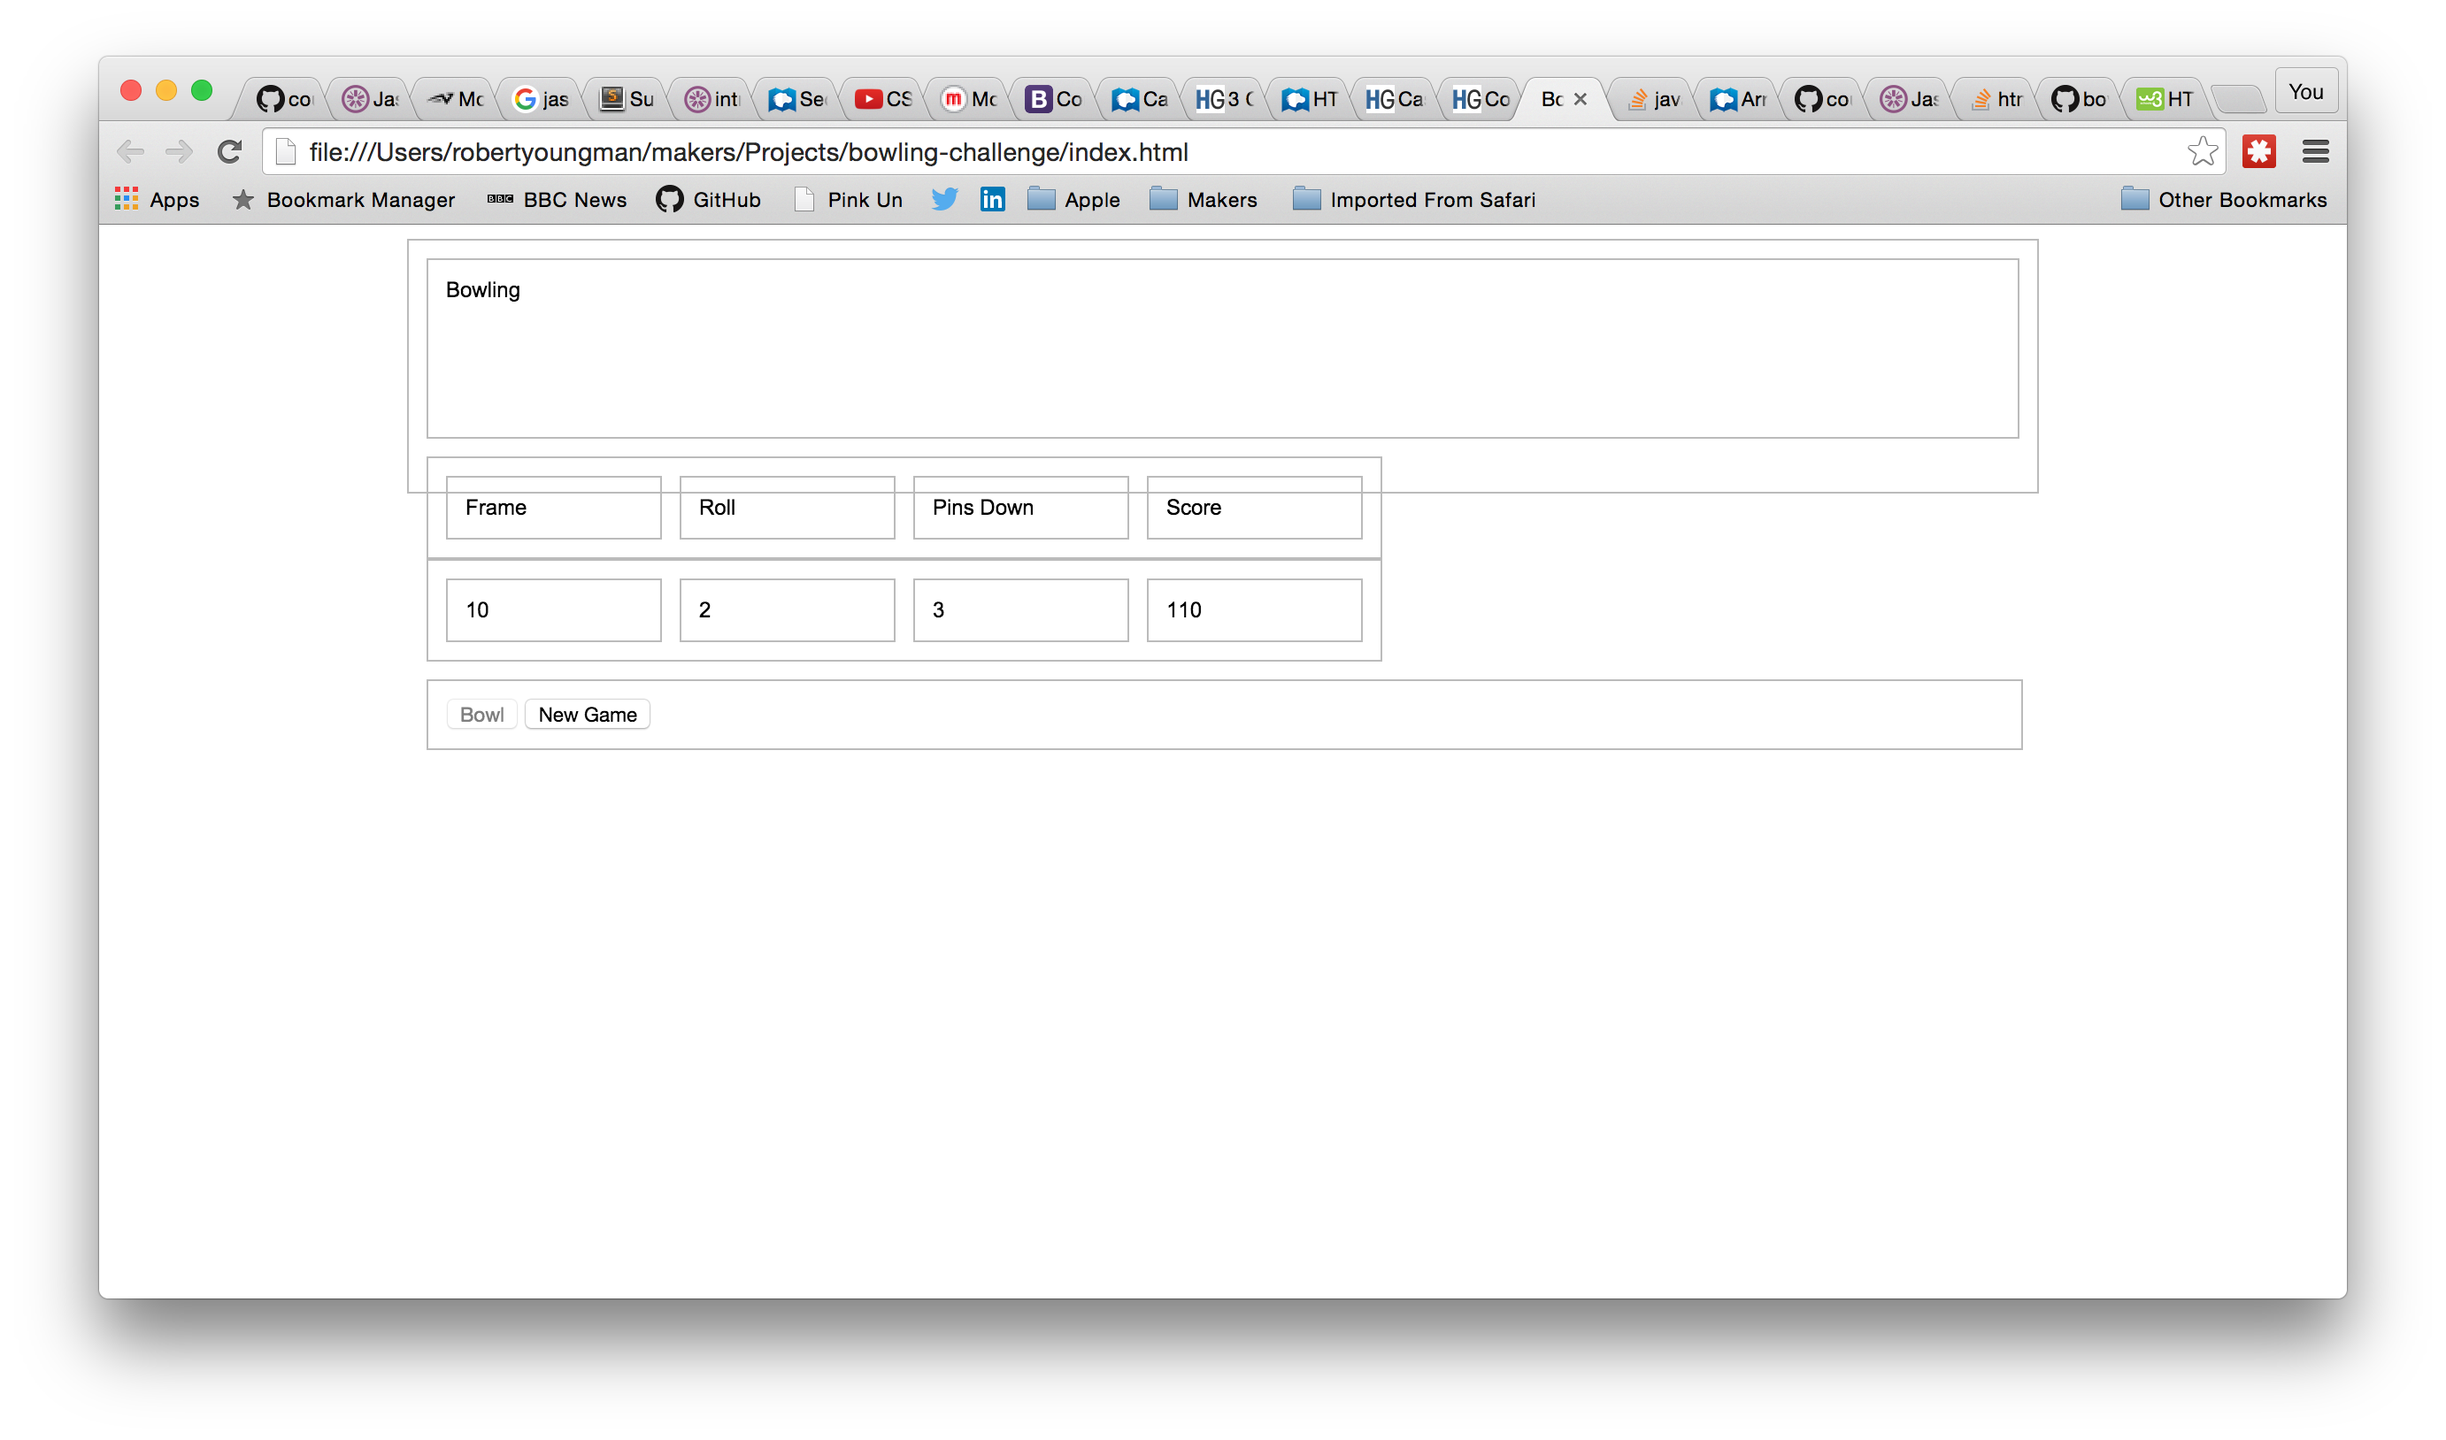
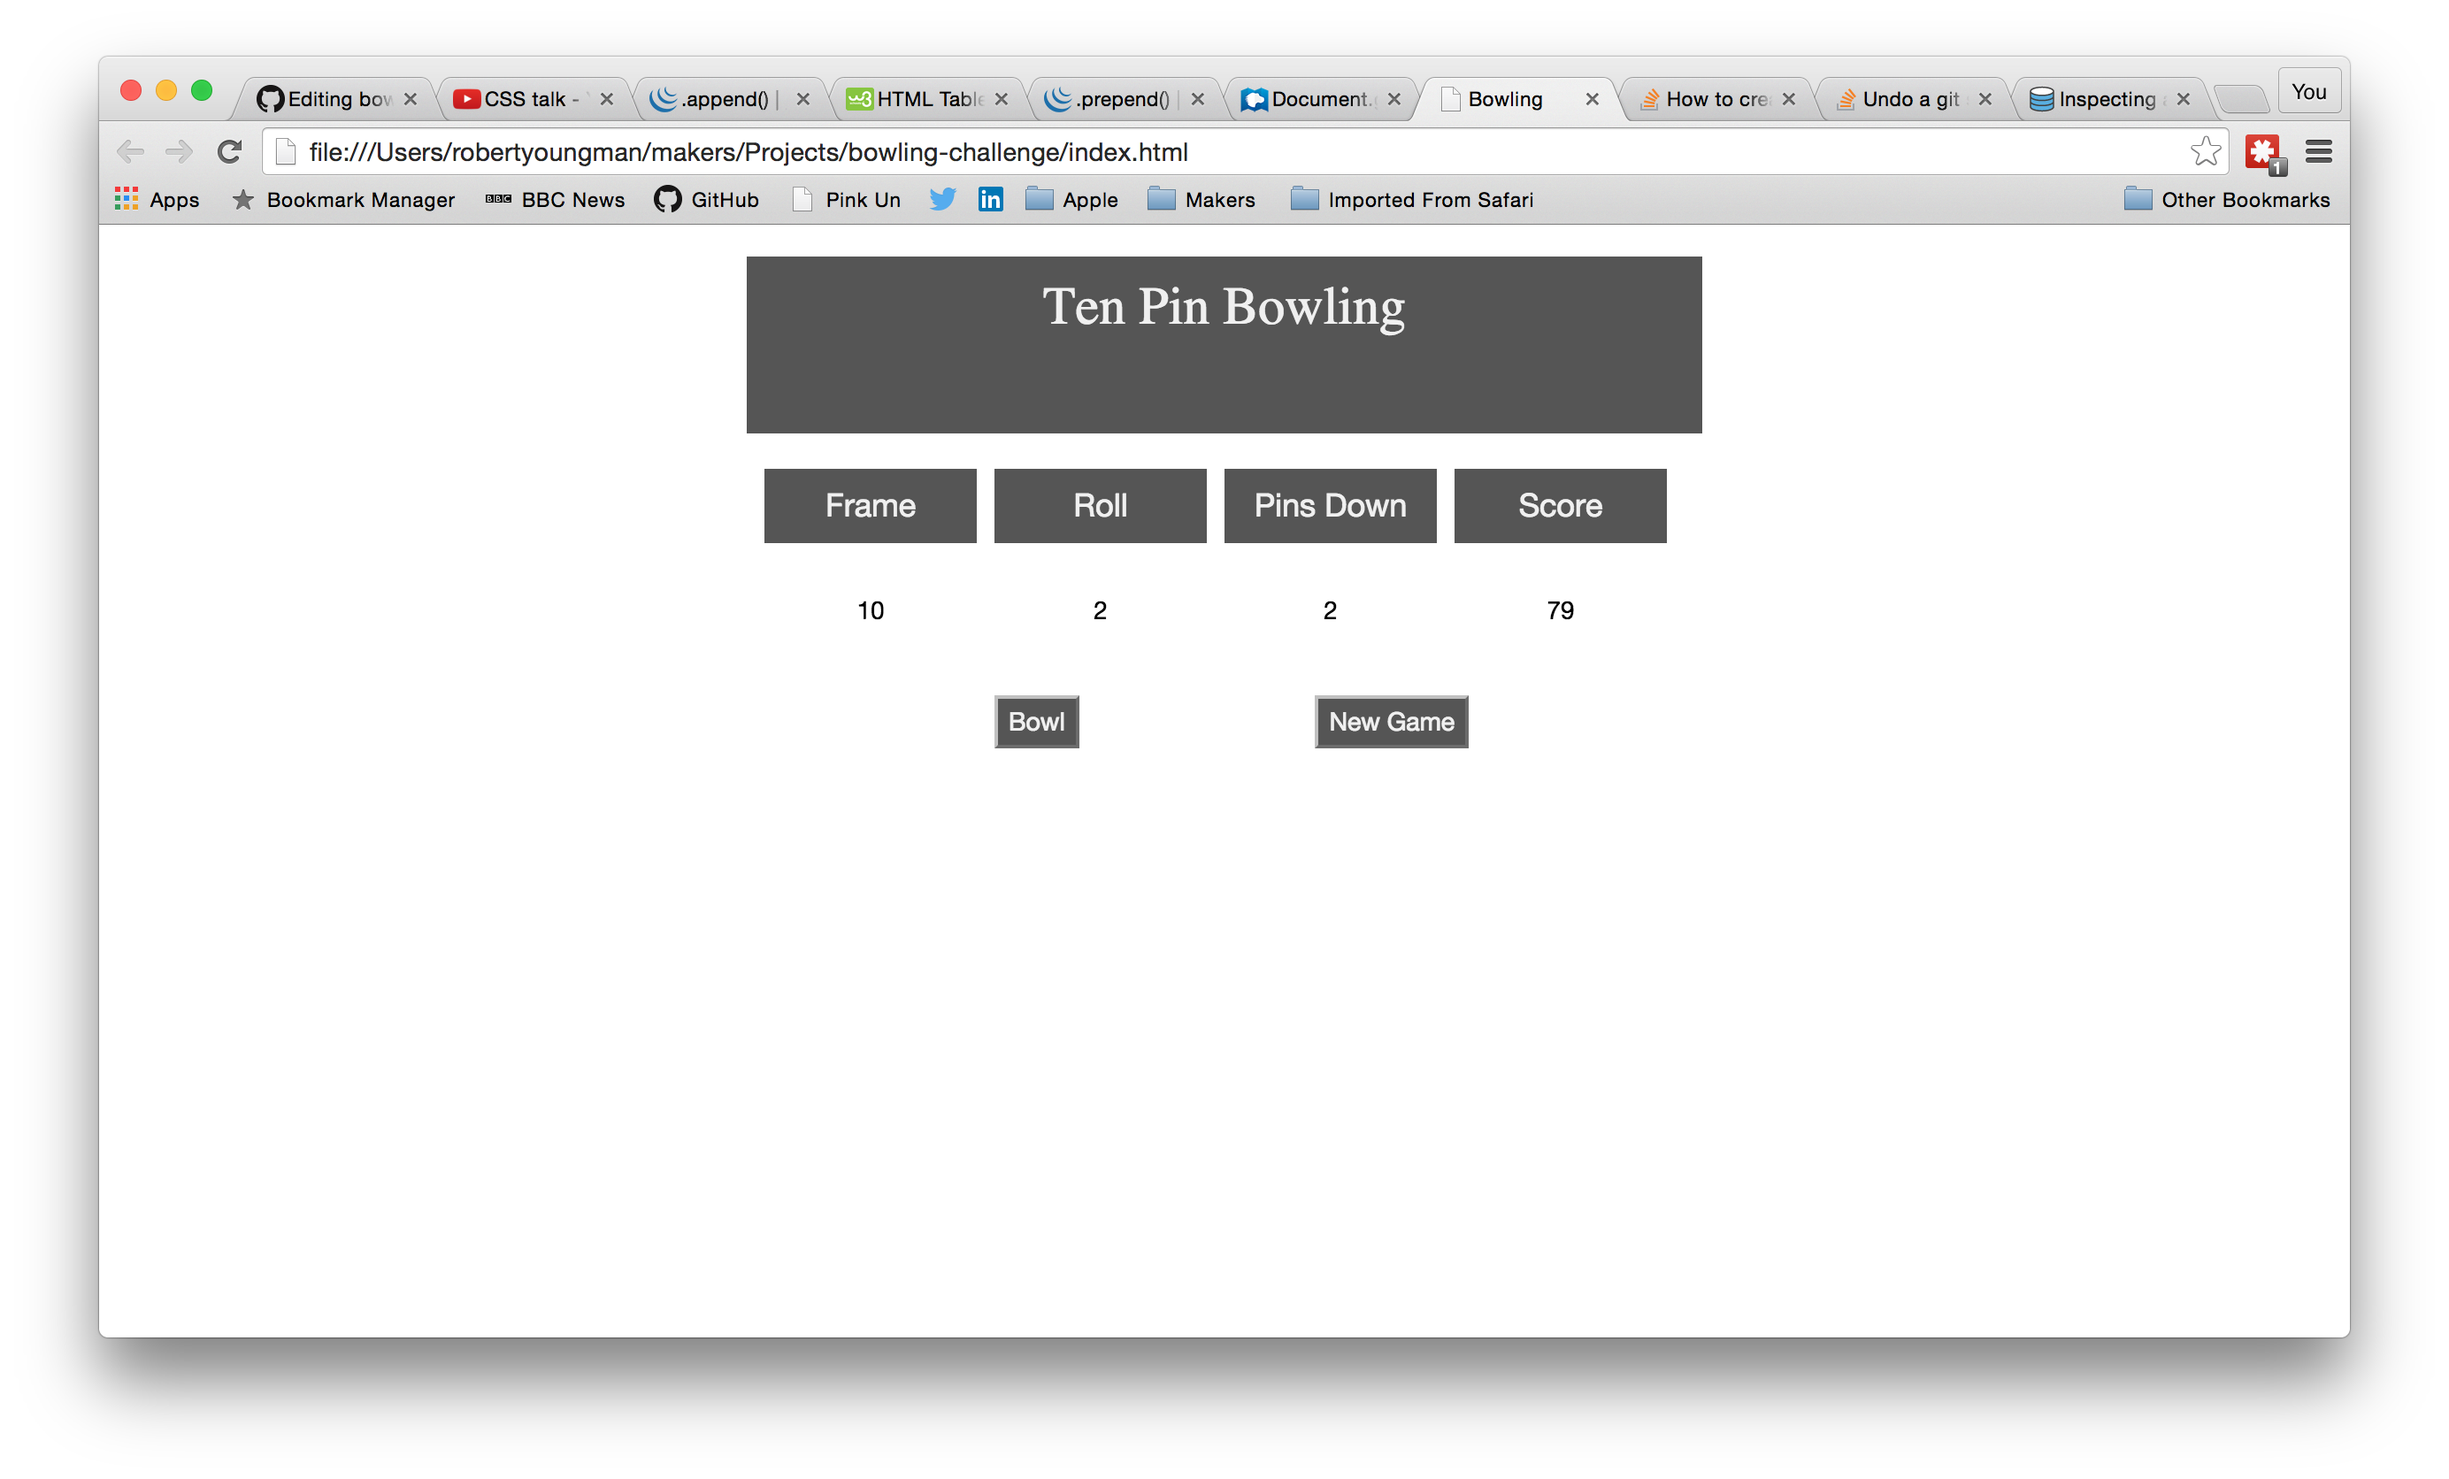
removed borders and new screen shots

diff --git a/style.css b/style.css
@@ -11,12 +11,10 @@ body {
   /* width:900px; */
   max-width: 540px;
   margin:0px auto;
-  border:1px solid #bbb;
   padding:10px;
 }
 
 #header {
-  border:1px solid #bbb;
   height:80px;
   padding:10px;
   color : #f0f0f0;
@@ -33,7 +31,6 @@ body {
 
 #content div {
   padding:10px;
-  border:1px solid #bbb;
   float:left;
 }
 
@@ -103,7 +100,6 @@ body {
     float:left;
     margin: 10px auto;
     padding: 10px;
-    border:1px solid #bbb;
     max-width: 400px;
 }
 
